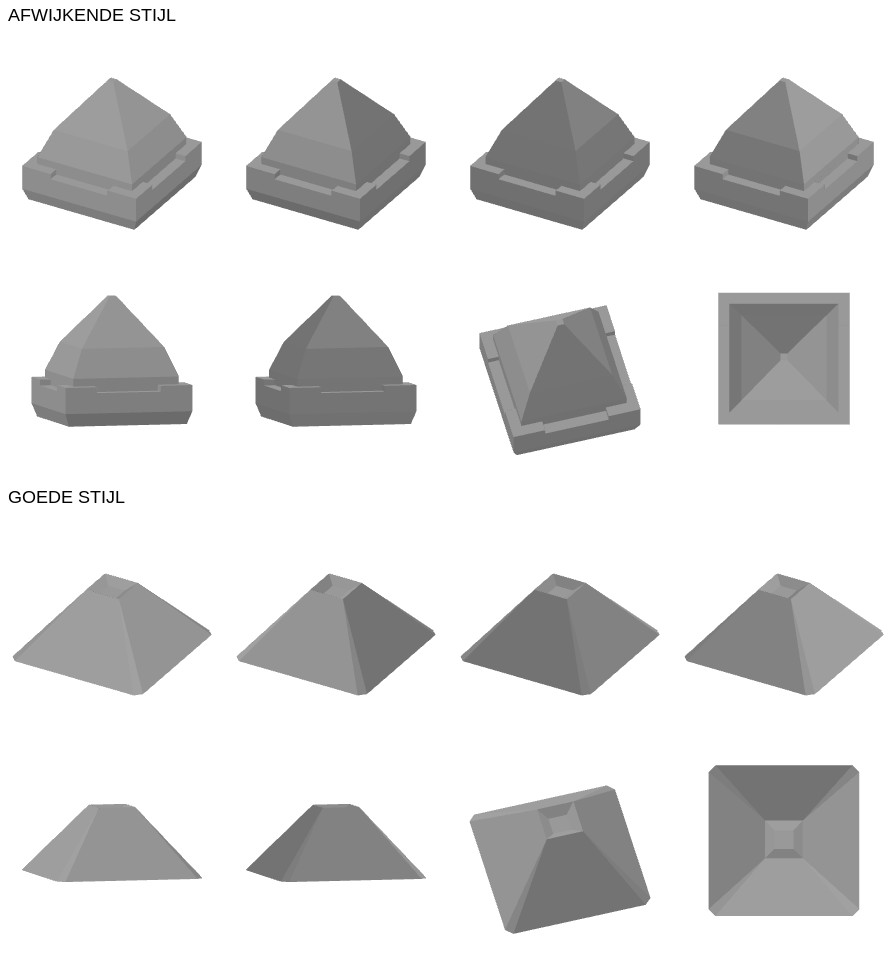
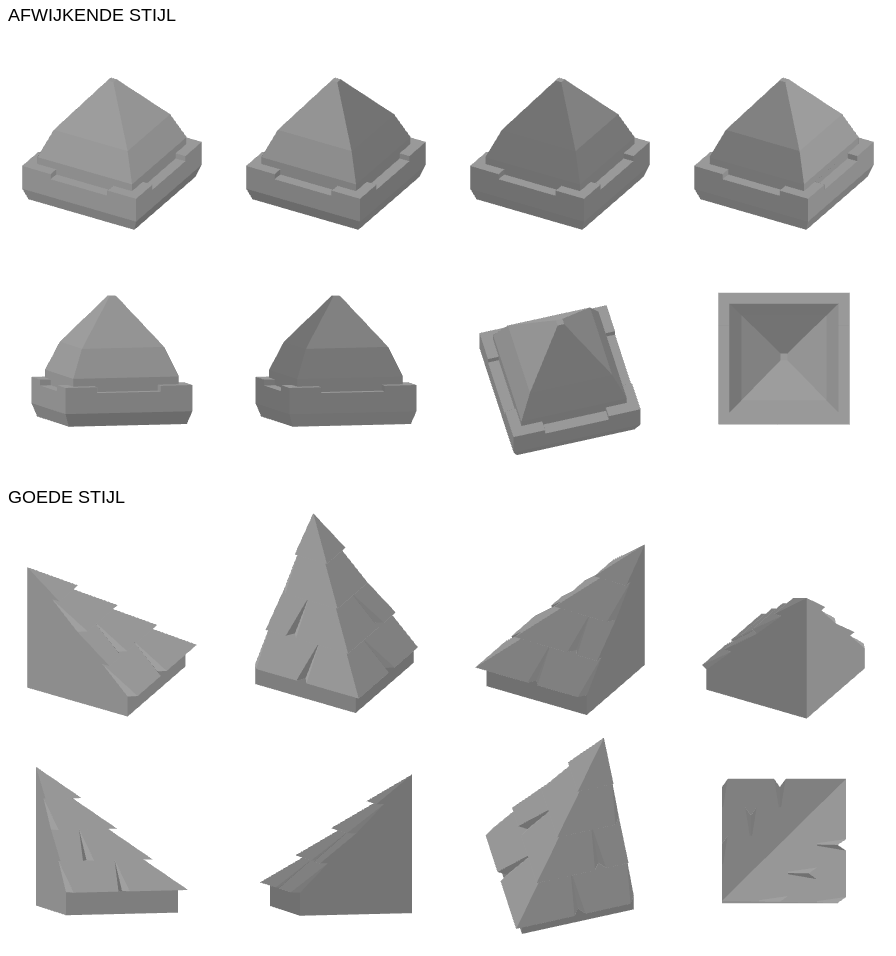
Swap the good halves of s10 and s11
The two roof sheets were crossed: the hexagonal spire stood above a wedge
slope and the square cap above a pyramid cap. Only the bottom blocks change
places, the deviant halves and both labels stay where they are; in
categorieen.md the two subjects follow the good half.

Claude-Session: https://claude.ai/code/session_0199MN5xkzQyL5gaKiFwcANW

diff --git a/docs/stijlreferentie/categorieen.md b/docs/stijlreferentie/categorieen.md
@@ -103,8 +103,8 @@ Total: 80 sheets.
 | `s7.png` | bench | `ref41.png` |
 | `s8.png` | A-frame sign | `ref43.png` |
 | `s9.png` | curved fence | `ref45.png` |
-| `s10.png` | roof slope | `ref57.png` |
-| `s11.png` | roof cap | `ref58.png` |
+| `s10.png` | roof cap | `ref57.png` |
+| `s11.png` | roof slope | `ref58.png` |
 | `s12.png` | roof slope | `ref61.png` |
 | `s13.png` | roof | `ref62.png` |
 | `s14.png` | wall with window | `ref63.png` |
